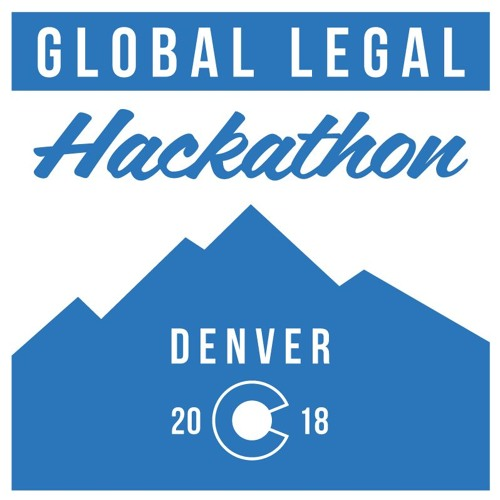
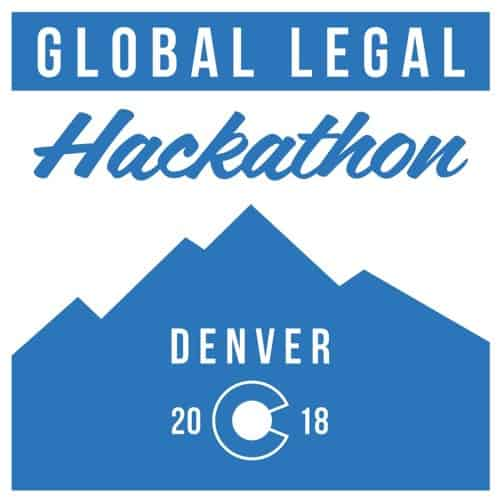
Compressed images, and a few other things I didn't get committed before the round 2 cutoff time.

diff --git a/app/assets/stylesheets/partials/_layout.sass b/app/assets/stylesheets/partials/_layout.sass
@@ -193,11 +193,19 @@ body
     position: absolute
     top: 0
     bottom: 0
-    left: 60%
+    left: 36%
     right: 0
     z-index: -1
-    opacity: 0.25
+    opacity: 0.31
     filter: grayscale(100%)
+    &:before
+      content: ''
+      position: absolute
+      top: 0
+      bottom: 0
+      left: 0
+      right: 0
+      background: linear-gradient(to right, $app-gray-light, rgba(255,255,255,0))
 
   .about_mission
     background: url(asset-path('LexLucid-thin.jpg')) no-repeat center left
@@ -205,11 +213,19 @@ body
     position: absolute
     top: 0
     bottom: 0
-    right: 50%
+    right: 30%
     left: 0
     z-index: -1
-    opacity: 0.25
+    opacity: 0.35
     filter: grayscale(100%)
+    &:before
+      content: ''
+      position: absolute
+      top: 0
+      bottom: 0
+      left: 0
+      right: 0
+      background: linear-gradient(to left, $app-gray-light, rgba(255,255,255,0))
 
 .footer
   padding-top: 2rem

diff --git a/app/controllers/users_controller.rb b/app/controllers/users_controller.rb
@@ -77,7 +77,7 @@ class UsersController < ApplicationController
         cookies.permanent[:email] = @user.email
         redirect_to return_to_path || documents_path
       else
-        flash[:notice] = "Bad username or password"
+        flash[:error] = "Bad username or password"
       end
     end
   end
